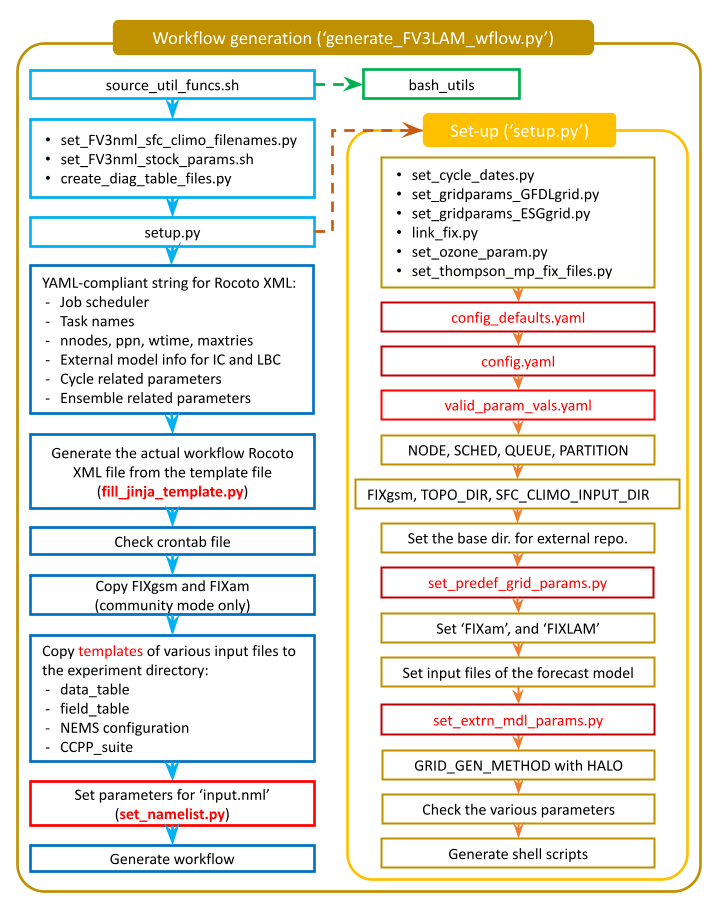
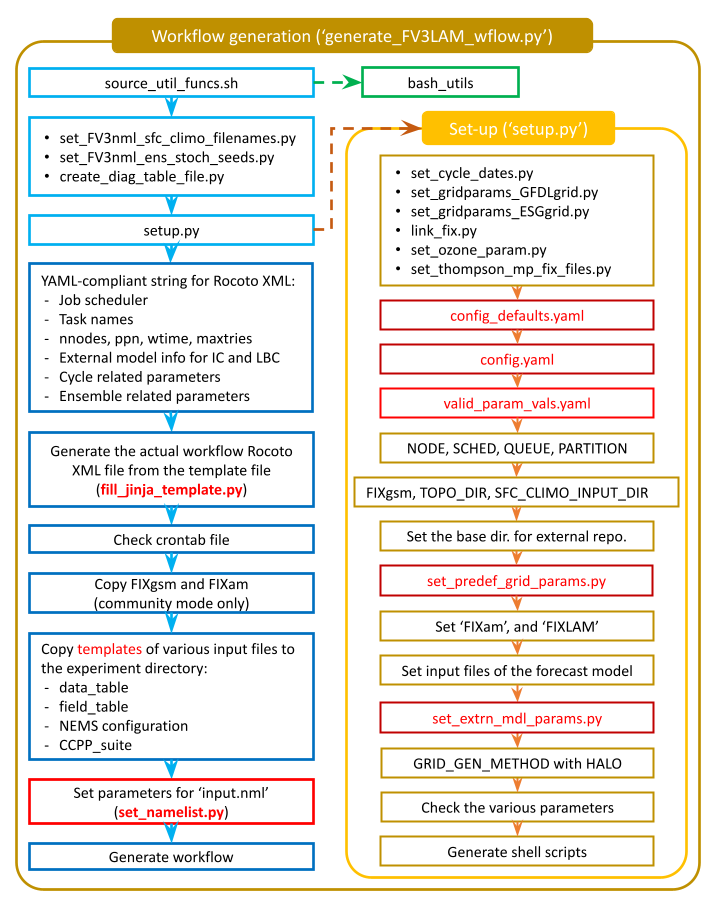
update expt gen image

Changed region(s): [[0.0, 0.0, 0.9819, 0.9846]]

diff --git a/docs/UsersGuide/source/RunSRW.rst b/docs/UsersGuide/source/RunSRW.rst
@@ -760,7 +760,7 @@ The generated workflow will appear in ``$EXPTDIR``, where ``EXPTDIR=${EXPT_BASED
 .. _WorkflowGeneration:
 
 .. figure:: _static/SRW_regional_workflow_gen.png
-   :alt: Flowchart of the workflow generation process. Scripts are called in the following order: source_util_funcs.sh (which calls bash_utils), then set_FV3nml_sfc_climo_filenames.sh, set_FV3nml_stock_params.sh, create_diag_table_files.sh, and setup.py. setup.py calls several scripts: set_cycle_dates.sh, set_grid_params_GFDLgrid.sh, set_grid_params_ESGgrid.sh, link_fix.sh, set_ozone_param.sh, set_Thompson_mp_fix_files.sh, config_defaults.sh, config.sh, and valid_param_vals.sh. Then, it sets a number of variables, including FIXgsm, TOPO_DIR, and SFC_CLIMO_INPUT_DIR variables. Next, set_predef_grid_params.sh is called, and the FIXam and FIXLAM directories are set, along with the forecast input files. The setup script also calls set_extrn_mdl_params.sh, sets the GRID_GEN_METHOD with HALO, checks various parameters, and generates shell scripts. Then, the workflow generation script sets up YAML-compliant strings and generates the actual Rocoto workflow XML file from the template file (fill_jinja_template.py). The workflow generation script checks the crontab file and, if applicable, copies certain fix files to the experiment directory. Then, it copies templates of various input files to the experiment directory and sets parameters for the input.nml file. Finally, it generates the workflow. Additional information on each step appears in comments within each script. 
+   :alt: Flowchart of the workflow generation process. Scripts are called in the following order: source_util_funcs.sh (which calls bash_utils), then set_FV3nml_sfc_climo_filenames.py, set_FV3nml_ens_stoch_seeds.py, create_diag_table_file.py, and setup.py. setup.py calls several scripts: set_cycle_dates.sh, set_grid_params_GFDLgrid.sh, set_grid_params_ESGgrid.sh, link_fix.sh, set_ozone_param.sh, set_Thompson_mp_fix_files.sh, config_defaults.sh, config.sh, and valid_param_vals.sh. Then, it sets a number of variables, including FIXgsm, TOPO_DIR, and SFC_CLIMO_INPUT_DIR variables. Next, set_predef_grid_params.sh is called, and the FIXam and FIXLAM directories are set, along with the forecast input files. The setup script also calls set_extrn_mdl_params.sh, sets the GRID_GEN_METHOD with HALO, checks various parameters, and generates shell scripts. Then, the workflow generation script sets up YAML-compliant strings and generates the actual Rocoto workflow XML file from the template file (fill_jinja_template.py). The workflow generation script checks the crontab file and, if applicable, copies certain fix files to the experiment directory. Then, it copies templates of various input files to the experiment directory and sets parameters for the input.nml file. Finally, it generates the workflow. Additional information on each step appears in comments within each script. 
 
    *Experiment generation description*
 
